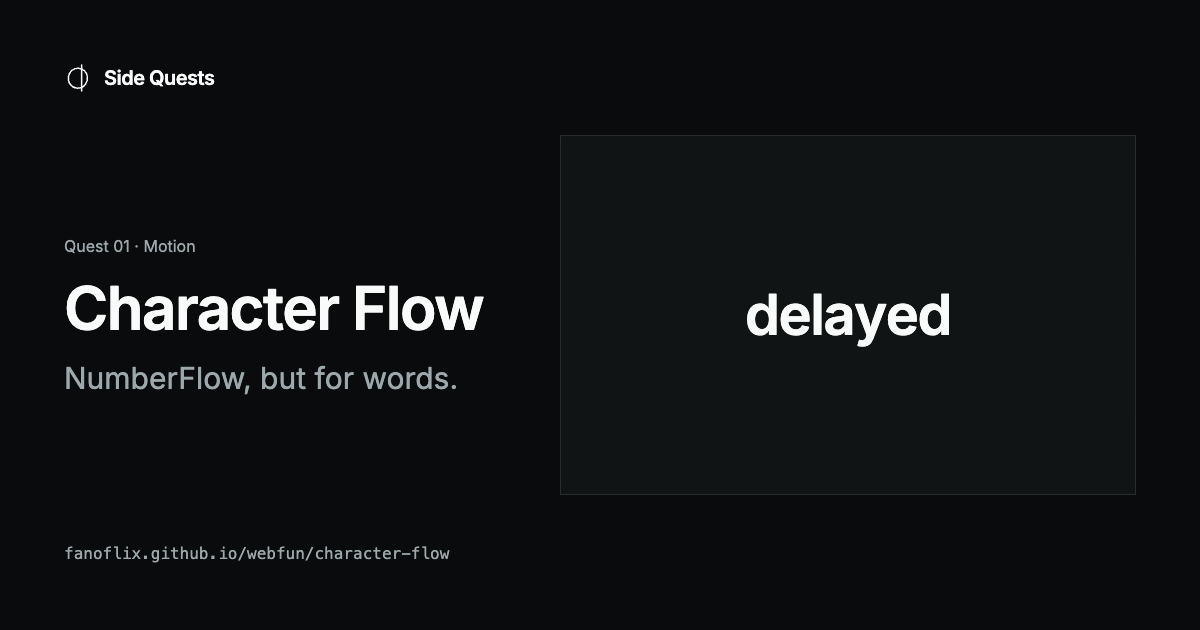
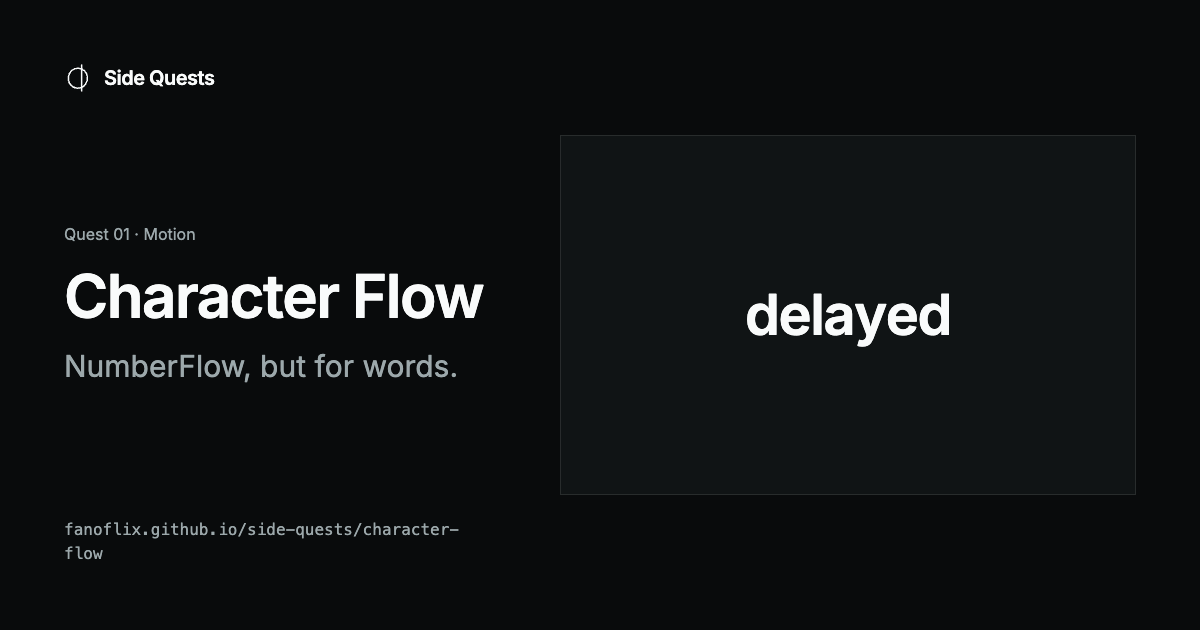
Rename to side-quests: base path, site URL, repo links and package name
- Pages base path /webfun/ -> /side-quests/, SITE_URL and every GitHub link
  follow the new repo name.
- OG images regenerated with the new URL.
- Package renamed to side-quests (lockfile workspace entry updated).
- Remove scripts/og-card.svg; yarn og generates og.png now.
- Concept chat keeps its webfun: storage keys so saved chats survive.

Changed region(s): [[0.0308, 0.3619, 0.4008, 0.6333], [0.0617, 0.8143, 0.37, 0.9048]]

diff --git a/vite.config.ts b/vite.config.ts
@@ -5,7 +5,7 @@ import viteReact from "@vitejs/plugin-react"
 import tailwindcss from "@tailwindcss/vite"
 
 /**
- * GitHub Pages serves this repo as a *project site* at `/webfun/`, so production
+ * GitHub Pages serves this repo as a *project site* at `/side-quests/`, so production
  * builds need that prefix on every asset URL; dev stays at the root. Override
  * with `VITE_BASE` (e.g. `VITE_BASE=/` if this ever moves to a custom domain).
  *
@@ -16,7 +16,7 @@ import tailwindcss from "@tailwindcss/vite"
  * Every route that gets its own prerendered HTML file.
  *
  * Without this the build emits only the SPA shell, and a deep link like
- * `/webfun/dithering` is served by `404.html` — which works for a person (the
+ * `/side-quests/dithering` is served by `404.html` — which works for a person (the
  * client router picks the URL up) but carries a 404 status, so a crawler treats
  * it as missing and renders no unfurl at all. Since the site is shared far more
  * often than it is browsed to, that made every tool link unpostable.
@@ -39,7 +39,7 @@ const PRERENDERED_PATHS = [
 ]
 
 const config = defineConfig(({ command }) => ({
-  base: process.env.VITE_BASE ?? (command === "build" ? "/webfun/" : "/"),
+  base: process.env.VITE_BASE ?? (command === "build" ? "/side-quests/" : "/"),
   resolve: { tsconfigPaths: true },
   plugins: [
     devtools({ consolePiping: { enabled: false } }),
@@ -50,7 +50,7 @@ const config = defineConfig(({ command }) => ({
     // Pages serves it as the site root.
     tanstackStart({
       // `crawlLinks: false`: the shell's sidebar links every route, and the
-      // crawler follows them *with* the `/webfun/` base still attached, so each
+      // crawler follows them *with* the `/side-quests/` base still attached, so each
       // page came out twice — once at the path we asked for and once as a
       // subfolder index. The list below is explicit; nothing needs discovering.
       spa: {
@@ -59,7 +59,7 @@ const config = defineConfig(({ command }) => ({
       },
       // `autoSubfolderIndex: false` emits `dithering.html` rather than
       // `dithering/index.html`. GitHub Pages resolves an extensionless request
-      // to the `.html` file, so `/webfun/dithering` is a direct 200 with no
+      // to the `.html` file, so `/side-quests/dithering` is a direct 200 with no
       // redirect — a redirect would work for browsers but costs a hop that some
       // unfurl crawlers don't take.
       pages: PRERENDERED_PATHS.map((path) => ({

diff --git a/src/styles.css b/src/styles.css
@@ -303,7 +303,7 @@
  * Scoped palettes for the TanStack showcase.
  *
  * The demo app inside that tool has to read as *someone else's product*, not as
- * part of webfun — otherwise the app and the teaching apparatus around it blur
+ * part of Side Quests — otherwise the app and the teaching apparatus around it blur
  * into one surface. So it gets its own neutral-grey theme with a white primary,
  * declared by redefining the same shadcn tokens inside a scope. Every component
  * underneath picks it up with no per-component overrides.
@@ -391,7 +391,7 @@
  * ...and they're opaque.
  *
  * The site's shadcn style is configured with `menuColor: default-translucent`,
- * so menus are `bg-popover/70` over a backdrop blur. That reads well on webfun's
+ * so menus are `bg-popover/70` over a backdrop blur. That reads well on Side Quests'
  * own chrome, but this menu opens over a dense list inside a *different*
  * product, where see-through is just hard to read. Scoped to the app so the
  * site's own menus keep the translucency they were designed with.

diff --git a/src/features/under-the-hood/tanstack-showcase/styles.ts b/src/features/under-the-hood/tanstack-showcase/styles.ts
@@ -46,7 +46,7 @@ export const NET_GRID = "grid grid-cols-[1fr_auto_auto] items-baseline gap-x-3"
  *
  * Kept as literal hex on purpose: the whole point is the flicker of
  * recognition, and mapping them onto the site's oklch tokens would lose it.
- * They appear nowhere else in webfun.
+ * They appear nowhere else in Side Quests.
  *
  * Only `waiting` is used for the waterfall. Chrome splits a bar into queueing /
  * waiting / download, but our fake server has a single latency with no transfer
@@ -72,7 +72,7 @@ export const BARE_SELECT = "w-auto border-b-transparent"
  * it stays visible in both themes — "white circle" in the dark one.
  *
  * Literal hex rather than theme tokens because these are semantic to the fake
- * product, not to webfun, and the app runs on a deliberately colourless grey
+ * product, not to Side Quests, and the app runs on a deliberately colourless grey
  * palette so these are the only hues in it.
  */
 export const STATUS_COLOR: Record<"in-progress" | "done", string> = {

diff --git a/src/router.tsx b/src/router.tsx
@@ -3,7 +3,7 @@ import { routeTree } from "./routeTree.gen"
 
 /**
  * Vite's `base` is the single source of truth for the URL prefix, but it always
- * carries a trailing slash ("/webfun/", or "/" locally). The router wants it
+ * carries a trailing slash ("/side-quests/", or "/" locally). The router wants it
  * without one, so normalise here rather than relying on it to cope.
  */
 const basepath = import.meta.env.BASE_URL.replace(/\/+$/, "") || "/"
@@ -11,7 +11,7 @@ const basepath = import.meta.env.BASE_URL.replace(/\/+$/, "") || "/"
 export function getRouter() {
   const router = createTanStackRouter({
     routeTree,
-    // GitHub Pages serves this repo as a project site under /webfun, so the
+    // GitHub Pages serves this repo as a project site under /side-quests, so the
     // router lives under that prefix too.
     basepath,
 

diff --git a/src/features/seo/meta.ts b/src/features/seo/meta.ts
@@ -13,7 +13,7 @@
  *    as spam by the third one, so every tool carries its own.
  *
  * Absolute URLs throughout: crawlers do not resolve relative paths, and the
- * site lives under a `/webfun/` base path, so a bare `/og.png` would resolve
+ * site lives under a `/side-quests/` base path, so a bare `/og.png` would resolve
  * against the domain root and 404.
  */
 
@@ -22,7 +22,7 @@ import { toolBySlug } from "@/features/nav/tools"
 
 export { SITE_NAME }
 
-export const SITE_URL = "https://fanoflix.github.io/webfun"
+export const SITE_URL = "https://fanoflix.github.io/side-quests"
 
 export const SITE_TITLE = `${SITE_NAME} by Ammar Nasir`
 export const SITE_DESCRIPTION =

diff --git a/src/features/under-the-hood/tanstack-showcase/app/TicketDetail.tsx b/src/features/under-the-hood/tanstack-showcase/app/TicketDetail.tsx
@@ -209,7 +209,7 @@ function DetailHeader({
             </SelectTrigger>
             {/* The popup is portalled to the document root, which puts it
                 *outside* `.showcase-app` — so it has to carry the scope itself
-                or it inherits webfun's palette instead of the app's. */}
+                or it inherits Side Quests' palette instead of the app's. */}
             <SelectContent className="showcase-app">
               {STATUSES.map((status) => (
                 <SelectItem key={status} value={status} className="text-xs">

diff --git a/src/features/under-the-hood/tanstack-showcase/app/AppMode.tsx b/src/features/under-the-hood/tanstack-showcase/app/AppMode.tsx
@@ -16,7 +16,7 @@ import { TicketList } from "./TicketList"
  * column, its own detail pane — precisely so it doesn't blur into the teaching
  * apparatus around it. The `showcase-app` class swaps the shadcn tokens for a
  * neutral grey palette with a white primary and rounded controls, so everything
- * underneath stops looking like webfun without a single per-component override.
+ * underneath stops looking like Side Quests without a single per-component override.
  *
  * The only tell that anything unusual is going on is the hint bubble.
  */

diff --git a/src/routes/__root.tsx b/src/routes/__root.tsx
@@ -11,7 +11,7 @@ import faviconUrl from "../assets/favicon.svg?url"
 /**
  * Everything under `public/` has to be reached through the base path.
  *
- * GitHub Pages serves this as a project site at `/webfun/`, so a bare
+ * GitHub Pages serves this as a project site at `/side-quests/`, so a bare
  * `/favicon.svg` resolves against the *domain* root and 404s — which is exactly
  * what was happening, since nothing declared an icon at all and the browser was
  * falling back to requesting `/favicon.ico` for itself.

diff --git a/src/features/canvas-stuff/dithering/useDither.ts b/src/features/canvas-stuff/dithering/useDither.ts
@@ -38,7 +38,7 @@ const MAX_ZOOM = 32
  * where naive quantisation bands worst, so the technique has something to show
  * immediately, and nothing here is anyone else's photo.
  *
- * Through the base path: on Pages the site is served from `/webfun/`, so a bare
+ * Through the base path: on Pages the site is served from `/side-quests/`, so a bare
  * `/dither-default.jpg` would resolve against the domain root.
  */
 const DEFAULT_IMAGE = `${import.meta.env.BASE_URL.replace(/\/+$/, "")}/dither-default.jpg`

diff --git a/src/features/speculative-ui/concept-chat/engine/assets.ts b/src/features/speculative-ui/concept-chat/engine/assets.ts
@@ -11,7 +11,7 @@
  */
 
 /**
- * `public/` is served from the site root, which is `/` in dev but `/webfun/` in
+ * `public/` is served from the site root, which is `/` in dev but `/side-quests/` in
  * production. `BASE_URL` carries whichever is in play, so paths are built from it
  * rather than hardcoded — the single reason this module exists at all.
  */

diff --git a/src/features/seo/OgCard.tsx b/src/features/seo/OgCard.tsx
@@ -63,7 +63,7 @@ function ToolCard({ tool }: { tool: Tool }) {
           </p>
         </div>
         <p className="font-mono text-base text-muted-foreground">
-          fanoflix.github.io/webfun{tool.to}
+          fanoflix.github.io/side-quests{tool.to}
         </p>
       </div>
       <div className="flex flex-1 items-center py-16 pr-16">

diff --git a/src/features/nav/site.ts b/src/features/nav/site.ts
@@ -1,5 +1,5 @@
 export const SITE_NAME = "Side Quests"
 export const AUTHOR = "Ammar Nasir"
-export const REPO_URL = "https://github.com/Fanoflix/webfun"
+export const REPO_URL = "https://github.com/Fanoflix/side-quests"
 export const AUTHOR_URL = "https://ammarnasir.com"
 export const LINKEDIN_URL = "https://www.linkedin.com/in/ammar-nasir"
